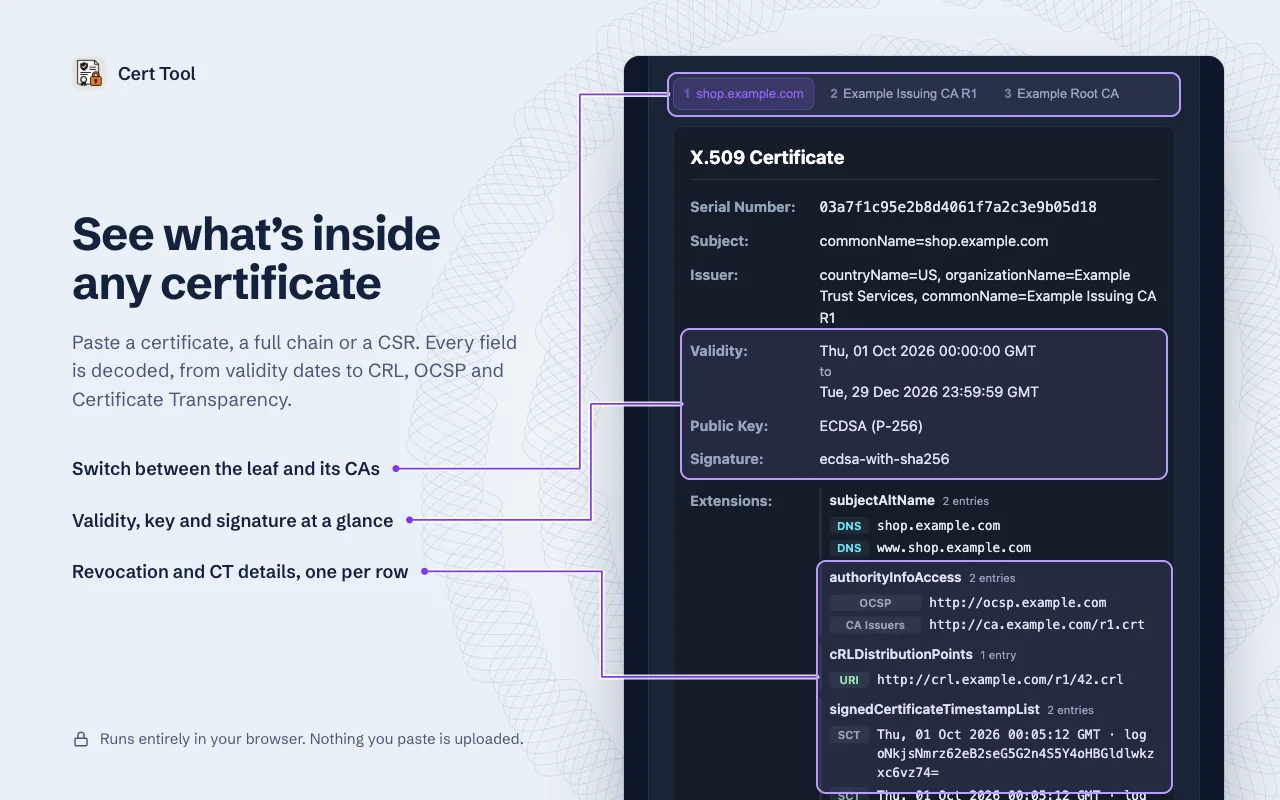
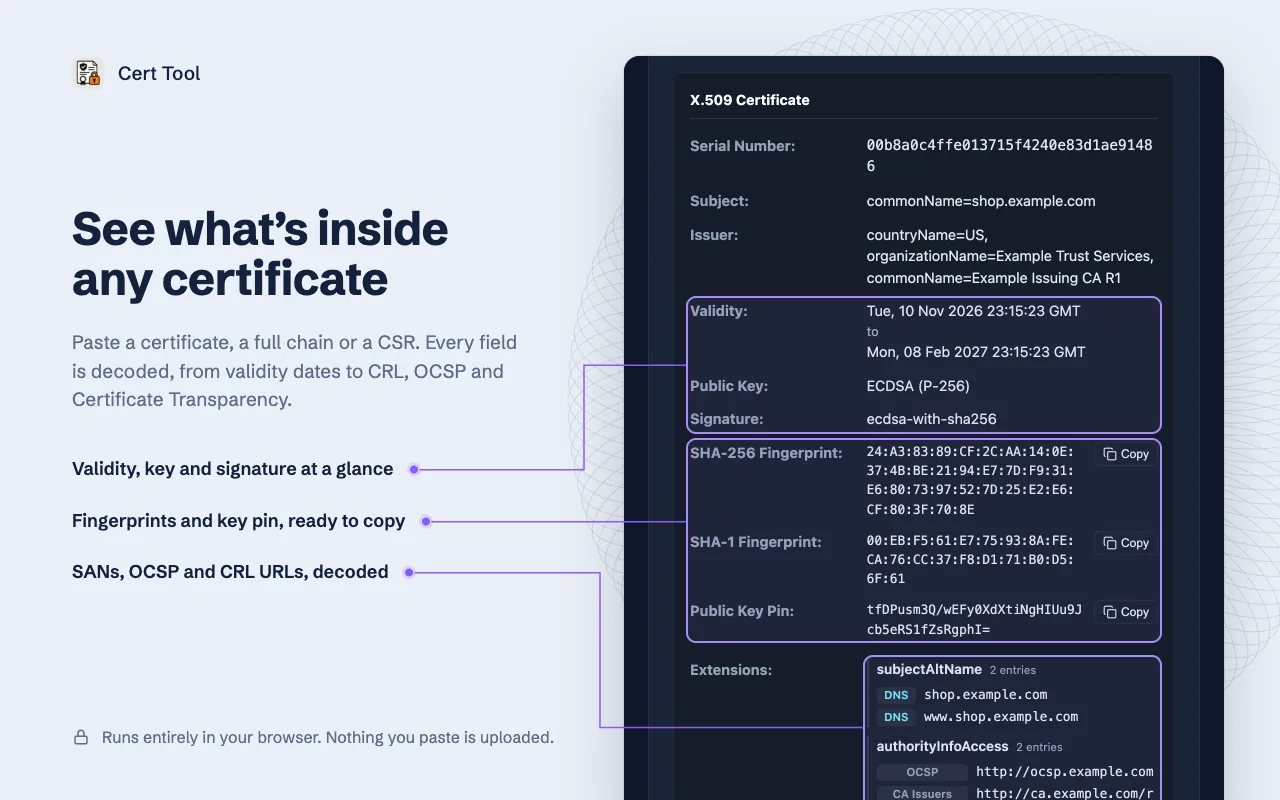
feat: Cert Tool 1.4.0 に合わせて紹介ページとサポートページを更新
- 紹介ページ:
  - 「And the site you're on」の再現 UI を、1.4.0 のチェーン図に置き換えた。
    各証明書の番号、役割、名前、鍵、残り日数、「issued by」のつながりを示す。
    残り日数はヒーローの例と同じく、ページ内の JS がその場で計算する。
  - Inspector・CSR・公開鍵のパネルを新機能に合わせて更新した。
    対象はフィンガープリントと公開鍵ピン、チェーン図、CSR の鍵形式、公開鍵の入力。
  - 画面写真 2-inspector と 4-csr を、拡張の新しいストア用スクリーンショットにした。
- サポートページ:
  - Chrome 137 以降が必要なことを追記した。
  - youtube.com のチェーンが root まで届かない理由の質問を追加した。
- CLAUDE.md: 再現 UI の説明を、チェーン図に合わせて更新した。

Claude-Session: https://claude.ai/code/session_01C9oCtG91HxpP7e6zEsNLCs

diff --git a/cert-tool/index.html b/cert-tool/index.html
@@ -194,19 +194,26 @@
     .way.wide { grid-column: 1 / -1; display: grid; grid-template-columns: 1fr 1fr; column-gap: 48px; }
     .way.wide .shot { grid-row: 1 / span 2; margin-bottom: 0; }
     .way.wide h3 { align-self: end; }
-    /* A replica of the Inspector after Show this site’s certificate: the summary and the chain with its roles. */
+    /* A replica of the Inspector after Show this site’s certificate: the summary, then the chain diagram (ChainDiagram in the extension). */
     .site { width: min(400px, 100%); padding: 14px; border-radius: 10px; background: var(--ov-bg); color: var(--ov-fg); font: 13px/1.45 var(--ui); }
     .site-sum { padding: 10px 12px; border: 1px solid rgba(6, 182, 212, .35); border-radius: 8px; background: rgba(6, 182, 212, .08); }
     .site-host { display: flex; align-items: center; gap: 6px; font-weight: 600; color: #fff; }
     .site-host svg { color: #06b6d4; }
     .site-tls { margin-top: 2px; color: #cbd5e1; }
     .site-note { margin-top: 4px; color: var(--ov-muted); font-size: 12px; }
-    .site-chain { display: flex; flex-wrap: wrap; gap: 6px; margin: 12px 0 0; padding: 0; list-style: none; }
-    .site-chain li { display: flex; align-items: baseline; gap: 6px; padding: 4px 8px; border: 1px solid transparent; border-radius: 6px; color: #cbd5e1; font-size: 12px; }
-    .site-chain li.on { border-color: rgba(139, 92, 246, .45); background: rgba(139, 92, 246, .18); color: #c4b5fd; }
-    .site-chain .n { color: var(--ov-muted); }
-    .site-chain .role { color: var(--ov-muted); font-size: 10px; font-weight: 700; letter-spacing: .06em; text-transform: uppercase; }
-    .site-chain li.on .n, .site-chain li.on .role { color: #c4b5fd; }
+    .site-chain { margin: 12px 0 0; padding: 0; list-style: none; }
+    .site-chain .node { display: grid; grid-template-columns: 17px minmax(0, 1fr) auto; align-items: baseline; column-gap: 8px; padding: 7px 11px; border: 1px solid rgba(148, 163, 184, .1); border-radius: 8px; background: rgba(15, 23, 42, .55); font-size: 12.5px; }
+    .site-chain .node.on { border-color: rgba(139, 92, 246, .7); background: rgba(139, 92, 246, .15); }
+    .site-chain .n { font-weight: 700; color: #64748b; }
+    .site-chain .name { display: flex; align-items: baseline; gap: 6px; min-width: 0; }
+    .site-chain .role { flex: none; color: #06b6d4; font-size: 10.5px; font-weight: 700; letter-spacing: .04em; text-transform: uppercase; }
+    .site-chain .label { overflow: hidden; text-overflow: ellipsis; white-space: nowrap; color: #fff; font-weight: 600; }
+    .site-chain .days { --tone: #34d399; padding: 0 7px; border-radius: 999px; background: color-mix(in srgb, var(--tone) 14%, transparent); color: var(--tone); font-size: 11px; font-weight: 600; white-space: nowrap; }
+    .site-chain .days[data-state="expiring"] { --tone: #fbbf24; }
+    .site-chain .days[data-state="expired"], .site-chain .days[data-state="not-yet-valid"] { --tone: #f87171; }
+    .site-chain .key { grid-column: 2 / -1; margin-top: 1px; color: var(--ov-muted); font-size: 11.5px; }
+    .site-chain .link { display: flex; align-items: center; gap: 5px; margin-left: 17px; padding: 4px 0 4px 9px; border-left: 2px solid rgba(6, 182, 212, .45); color: var(--ov-muted); font-size: 11px; }
+    .site-chain .link svg { color: #06b6d4; }
     .way b { color: var(--ink); font-weight: 600; }
     .legend { display: grid; gap: 12px; justify-items: start; }
     .legend li { display: flex; align-items: center; gap: 14px; }
@@ -403,21 +410,29 @@ lE04fNybj+gu+smLAjASawg4lQd3Efqh5BJ1LHZyZf3qsV2wBX4RxlsnZXBZ0V8H
           </div>
           <div class="way wide">
             <div class="shot">
-              <div class="site" role="img" aria-label="The Inspector after Show this site’s certificate: shop.example.com over TLS 1.3, verified by Chrome, with its chain labeled leaf, intermediate and root.">
+              <div class="site" role="img" aria-label="The Inspector after Show this site’s certificate: shop.example.com over TLS 1.3, verified by Chrome, with its chain drawn from the leaf through the intermediate to the root, each with its key and days left.">
                 <div class="site-sum">
                   <div class="site-host"><svg width="13" height="13" viewBox="0 0 24 24" fill="none" stroke="currentColor" stroke-width="2.2" stroke-linecap="round" stroke-linejoin="round" aria-hidden="true"><rect x="4" y="11" width="16" height="10" rx="2"/><path d="M8 11V7a4 4 0 0 1 8 0v4"/></svg>shop.example.com</div>
                   <div class="site-tls">TLS 1.3 · X25519MLKEM768 · AES_128_GCM</div>
                   <div class="site-note">Verified by Chrome, from the leaf up to a root it trusts.</div>
                 </div>
-                <ul class="site-chain">
-                  <li class="on"><span class="n">1</span><span class="role">Leaf</span>shop.example.com</li>
-                  <li><span class="n">2</span><span class="role">Intermediate</span>Example Issuing CA R1</li>
-                  <li><span class="n">3</span><span class="role">Root</span>Example Root CA</li>
-                </ul>
+                <ol class="site-chain">
+                  <li>
+                    <div class="node on"><span class="n">1</span><span class="name"><span class="role">Leaf</span><span class="label">shop.example.com</span></span><span class="days" data-not-after="2027-02-08T23:15:23Z">86d left</span><span class="key">ECDSA (P-256)</span></div>
+                    <div class="link"><svg width="12" height="12" viewBox="0 0 24 24" fill="none" stroke="currentColor" stroke-width="2" stroke-linecap="round" stroke-linejoin="round" aria-hidden="true"><path d="M12 5v14"/><path d="m19 12-7 7-7-7"/></svg> issued by</div>
+                  </li>
+                  <li>
+                    <div class="node"><span class="n">2</span><span class="name"><span class="role">Intermediate</span><span class="label">Example Issuing CA R1</span></span><span class="days" data-not-after="2031-11-09T23:15:23Z">1821d left</span><span class="key">ECDSA (P-384)</span></div>
+                    <div class="link"><svg width="12" height="12" viewBox="0 0 24 24" fill="none" stroke="currentColor" stroke-width="2" stroke-linecap="round" stroke-linejoin="round" aria-hidden="true"><path d="M12 5v14"/><path d="m19 12-7 7-7-7"/></svg> issued by</div>
+                  </li>
+                  <li>
+                    <div class="node"><span class="n">3</span><span class="name"><span class="role">Root</span><span class="label">Example Root CA</span></span><span class="days" data-not-after="2046-11-05T23:15:23Z">7296d left</span><span class="key">ECDSA (P-384) · self-issued</span></div>
+                  </li>
+                </ol>
               </div>
             </div>
             <h3>And the site you’re on</h3>
-            <p>Click <b>Show this site’s certificate</b> on the Inspector tab. Cert Tool loads the chain Chrome verified for the site, from the leaf up to the root, with the TLS version and cipher. Chrome shows a “started debugging this browser” bar while Cert Tool reads it.</p>
+            <p>Click <b>Show this site’s certificate</b> on the Inspector tab. Cert Tool loads the chain Chrome verified for the site and draws it from the leaf up to the root, each certificate with its key and days left, along with the TLS version and cipher. Chrome shows a “started debugging this browser” bar while Cert Tool reads it.</p>
           </div>
         </div>
 
@@ -452,13 +467,14 @@ lE04fNybj+gu+smLAjASawg4lQd3Efqh5BJ1LHZyZf3qsV2wBX4RxlsnZXBZ0V8H
         </div>
 
         <div class="panel" role="tabpanel" id="panel-inspector" aria-labelledby="tab-inspector" hidden>
-          <img src="/cert-tool/screens/2-inspector.webp" width="1280" height="800" alt="The Inspector tab showing a decoded certificate with its SANs, authority information access and SCTs." loading="lazy" />
+          <img src="/cert-tool/screens/2-inspector.webp" width="1280" height="800" alt="The Inspector tab showing a decoded certificate: its validity, key and signature, its fingerprints and public key pin, and its SANs and authority information access." loading="lazy" />
           <div>
             <h3>Decode a certificate, chain or CSR</h3>
             <ul>
               <li>Subject, issuer, validity, key, signature and serial number</li>
+              <li>SHA-256 and SHA-1 fingerprints and the public key pin, ready to copy</li>
               <li>SANs, key usage, CRL and OCSP URLs, policies, SCTs and other extensions, decoded</li>
-              <li>Paste a full chain and switch between the leaf and intermediates</li>
+              <li>Paste a full chain to see it drawn from the leaf to the root, with any issuer that is out of order or missing named</li>
             </ul>
           </div>
         </div>
@@ -476,12 +492,12 @@ lE04fNybj+gu+smLAjASawg4lQd3Efqh5BJ1LHZyZf3qsV2wBX4RxlsnZXBZ0V8H
         </div>
 
         <div class="panel" role="tabpanel" id="panel-csr" aria-labelledby="tab-csr" hidden>
-          <img src="/cert-tool/screens/4-csr.webp" width="1280" height="800" alt="The CSR tab with subject fields and subject alternative names filled in." loading="lazy" />
+          <img src="/cert-tool/screens/4-csr.webp" width="1280" height="800" alt="The CSR tab with subject fields and subject alternative names filled in, and the CSR it made." loading="lazy" />
           <div>
             <h3>Build a certificate signing request</h3>
             <ul>
               <li>Subject fields and SANs: DNS names, IP addresses, emails and URIs</li>
-              <li>Signed with your own private key</li>
+              <li>Signed with your own RSA, ECDSA or Ed25519 key, in PKCS#8, PKCS#1 or SEC1 PEM</li>
             </ul>
           </div>
         </div>
@@ -491,8 +507,8 @@ lE04fNybj+gu+smLAjASawg4lQd3Efqh5BJ1LHZyZf3qsV2wBX4RxlsnZXBZ0V8H
           <div>
             <h3>Get the public key</h3>
             <ul>
-              <li>From a private key, a certificate or a CSR</li>
-              <li>The input type and algorithm are detected for you</li>
+              <li>From a private key, a certificate, a CSR or a public key</li>
+              <li>The input type is detected for you, and the key comes out as SPKI PEM</li>
             </ul>
           </div>
         </div>
@@ -578,6 +594,23 @@ lE04fNybj+gu+smLAjASawg4lQd3Efqh5BJ1LHZyZf3qsV2wBX4RxlsnZXBZ0V8H
       });
       document.querySelector('[data-short]').textContent = short[state];
       document.querySelector('[data-long]').textContent = long[state];
+    })();
+
+    // Days left on each certificate of the site chain, worked out the same way (src/page/validity.ts). All three start 2026-11-10.
+    (function showChainValidity() {
+      var NOT_BEFORE = Date.UTC(2026, 10, 10, 23, 15, 23), DAY = 86400000, now = Date.now();
+      document.querySelectorAll('.site-chain [data-not-after]').forEach(function (el) {
+        var notAfter = Date.parse(el.getAttribute('data-not-after')), state, text;
+        if (now < NOT_BEFORE) { state = 'not-yet-valid'; text = 'not yet valid'; }
+        else if (now > notAfter) { state = 'expired'; text = 'expired'; }
+        else {
+          var days = Math.floor((notAfter - now) / DAY);
+          state = notAfter - now < 30 * DAY ? 'expiring' : 'valid';
+          text = days === 0 ? '<1d left' : days + 'd left';
+        }
+        el.setAttribute('data-state', state);
+        el.textContent = text;
+      });
     })();
 
     // The example badge: click to open or close the card, like the real one.

diff --git a/cert-tool/support.html b/cert-tool/support.html
@@ -15,7 +15,7 @@
 
     <h2>Using Cert Tool</h2>
     <ul>
-      <li>Install Cert Tool from the <a href="https://chromewebstore.google.com/detail/cert-tool/ojgmjpfknnlfcfjcljkdcfpbpgciefkk" target="_blank" rel="noopener">Chrome Web Store</a>.</li>
+      <li>Install Cert Tool from the <a href="https://chromewebstore.google.com/detail/cert-tool/ojgmjpfknnlfcfjcljkdcfpbpgciefkk" target="_blank" rel="noopener">Chrome Web Store</a>. It needs Chrome 137 or later.</li>
       <li>Click the toolbar icon to open the popup. It opens on the <strong>Inspector</strong> tab; the other tabs are <strong>Gen KeyPair</strong>, <strong>Gen CSR</strong>, <strong>Derive PubKey</strong> and <strong>Lint</strong>.</li>
       <li>To see the certificate chain of the site you’re on, click <strong>Show this site’s certificate</strong> on the Inspector tab.</li>
       <li>To check the certificates on a page, click <strong>Scan this page</strong> on the Inspector tab. Hover over or click a badge for details.</li>
@@ -27,6 +27,8 @@
     <p>Chrome doesn’t let extensions read its own pages, such as <code>chrome://</code> pages, the Chrome Web Store, and other extensions’ pages. <strong>Show this site’s certificate</strong> also needs a page loaded over HTTPS. Copy the certificate into the Inspector tab instead.</p>
     <h3>Cert Tool says another extension has added its own frame to the page</h3>
     <p>Some extensions add their own frame to pages, such as the bar Vimium shows once you use it, and Chrome then keeps other extensions’ debuggers off the tab. In that case <strong>Show this site’s certificate</strong> reads the certificate over Cert Tool’s own connection to the site instead, and the summary says so. A few sites refuse that request. On those, reload the page and click the button again before using the other extension, or turn that extension off for the site.</p>
+    <h3>Why doesn’t the chain of youtube.com reach a root?</h3>
+    <p>Chrome trusts a few intermediate certificates directly, not only roots. Its root store includes, for example, Google Trust Services’ WE1 and WE2 and several Let’s Encrypt intermediates. For a site whose certificate one of them issued, the chain Chrome verifies ends at that intermediate. <strong>Show this site’s certificate</strong> shows the chain Chrome verified, so it stops there too, and the diagram says Chrome trusts that certificate directly. For youtube.com, the chain is the site’s certificate and WE2.</p>
     <h3>Why does Chrome say Cert Tool “started debugging this browser”?</h3>
     <p><strong>Show this site’s certificate</strong> reads the certificate through Chrome’s debugger, the only way Chrome lets extensions read it. The bar shows while Cert Tool reads it, and Cert Tool detaches right after. This is also why Chrome asks you to approve “Access the page debugger backend” when you install or update Cert Tool.</p>
     <h3>A certificate on the page has no badge</h3>

diff --git a/CLAUDE.md b/CLAUDE.md
@@ -51,7 +51,11 @@ There are **three page styles** — don't mix them:
   - The card text was copied from the extension's own output for that certificate, so a visitor who runs Scan this page sees the same thing.
   - Days left are computed live in the page's JS, mirroring `src/page/validity.ts` in the extension repo.
   - If you change the certificate, regenerate the card text from the extension.
-- **"And the site you're on" card** (third card in the ways section): an HTML replica of the Inspector after *Show this site's certificate*, for the same fictional `shop.example.com` → Example Issuing CA R1 → Example Root CA chain as store screenshot 7. Its summary text and Leaf / Intermediate / Root tags copy the extension's `SiteSummary` and `ChainSelector`; update them if those change.
+- **"And the site you're on" card** (the third card in the ways section) is an HTML replica of the Inspector after *Show this site's certificate*.
+  - It uses the same fictional chain as store screenshot 7: `shop.example.com` → Example Issuing CA R1 → Example Root CA.
+  - Its summary copies the extension's `SiteSummary`.
+  - Its chain diagram copies `ChainDiagram` and its `.chain-*` styles in `src/index.css`: numbered nodes with role, name, key and a days-left pill, joined by "issued by" links. Update the replica if those change.
+  - The pills are worked out live by inline JS from each certificate's notAfter, the same way the hero's are. All three certificates start 2026-11-10; the leaf ends 2027-02-08.
 - **`cert-tool/privacy.html`** mirrors `PRIVACY.md` in `mkontani/cert-tool-extension`. Keep the two in sync.
 - **`cert-tool/screens/*.webp`** are WebP copies of that repo's `screenshots/store/*.png`.
 - **The `/cert-tool-extension/` path** belongs to that repo's own Pages site, a live demo of the popup. Never add a folder with that name here.
